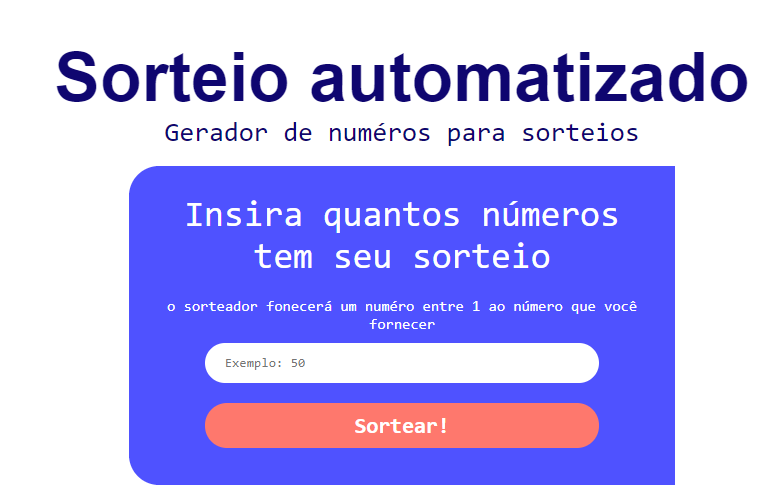
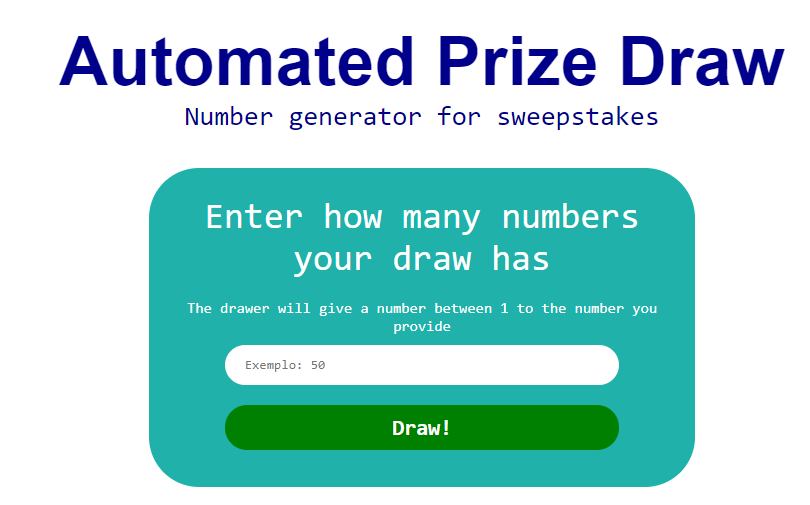
Add files via upload

diff --git a/Sorteio automatizado/style.css b/Sorteio automatizado/style.css
@@ -1,8 +1,8 @@
 /* global css */
 
 :root{
-    --text: #0F0670;
-    --buttonBg: #FE786D;
+    --text: darkblue;
+    --buttonBg: green;
     font-size: 16px;
 }
 
@@ -19,7 +19,7 @@
 html,body{
     height: 80vh;
     width: 100vw;
-    color: yellow;
+    color: darkblue;
 }
 
 /* animation*/
@@ -37,25 +37,26 @@ html,body{
 /* landing page css */
 
 .container{
+    
     height: 100%;
-    margin-top: 10px;
+    margin-top: 30px;
     display: flex;
     align-items: center;
     justify-content: space-between;
     flex-direction: column;
-    z-index: 100;
+    
 }
 
 .container main{
-    height: 100%;
+    height: 120%;
     text-align: center;
-    padding: 1rem;
+    padding: 2rem;
     position: relative;
 
     display: flex;
     flex-direction: column;
-    justify-content: space-evenly;
-    z-index: 100;
+    
+
 }
 
 .container main h1{
@@ -83,7 +84,7 @@ html,body{
     justify-content: center;
     flex-direction: column;
     
-    background: #4F52FF;
+    background: lightseagreen;
 
     text-align: center;
 }
@@ -224,10 +225,10 @@ html,body{
     }
 
     .container section{
-        background: #4F52FF;
+        background: lightseagreen;
         height: 100%;
         width: 40%;
-        border-radius: 30px 0 0 30px;
+        border-radius: 50px;
     }
 
     .container section h2{
